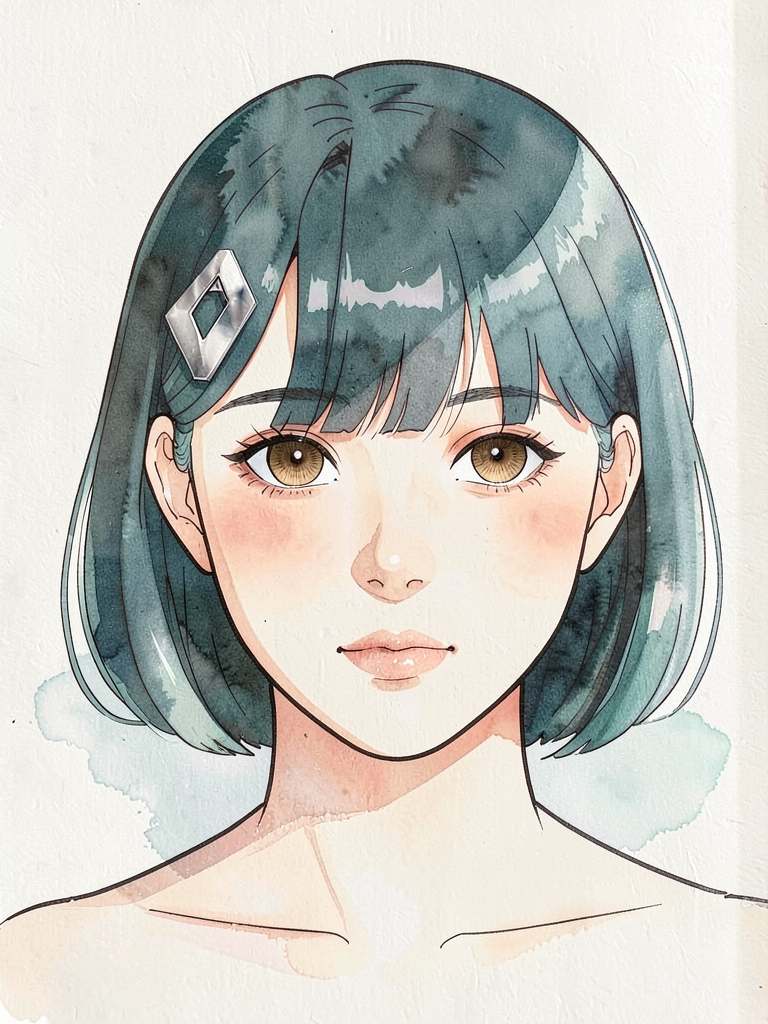
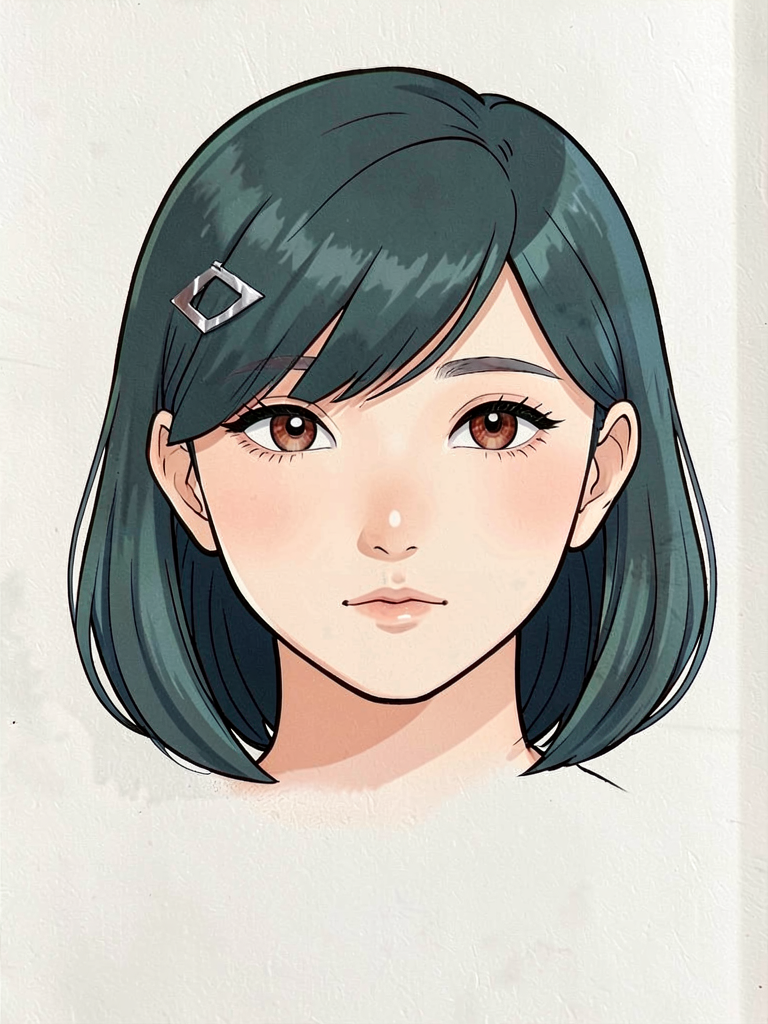
docs: refine Mira prop criteria

diff --git a/docs/assets/part-07/chapter-05/p7_5_2_research_trousers_deep_teal_blue.py b/docs/assets/part-07/chapter-05/p7_5_2_research_trousers_deep_teal_blue.py
@@ -1,5 +1,5 @@
 #!/usr/bin/env python3
-"""Generate an unapproved prompt-only hair-clip reference candidate."""
+"""Test a deep-teal-blue Mira trousers reference from prompt only."""
 
 from __future__ import annotations
 
@@ -11,14 +11,16 @@ from diffusers import Flux2KleinPipeline
 
 
 ROOT = Path("/home/cbsim/ws/AiBook/docs/assets/part-07/chapter-05")
-OUTPUT = ROOT / "p7-5-2-prop-reference-v2-hair-clip-candidate.png"
+OUTPUT = ROOT / "p7-5-2-prop-trousers-deep-teal-blue-candidate.png"
 MODEL_ID = "black-forest-labs/FLUX.2-klein-4B"
-PROMPT = """One isolated silver hair clip in a clean horizontal product view on a plain off-white background. Use one flat, elongated long-rhombus metal plate with four sharp pointed corners and a broad smooth silver rim. Cut one smaller elongated long-rhombus hole with four sharp pointed corners through the center, parallel to the outer plate; show the off-white background through it. Add one short barrette clasp behind the plate. No rounded slot, gem, pattern, person, text, logo, or other object."""
+
+PROMPT = """One isolated pair of deep teal blue high-waisted wide-leg trousers in a clean front view on a plain off-white background. Use one blue-dominant dark teal base color, neither green turquoise nor gray. Belt loops, center fly, crisp vertical seams, straight wide legs, and hems above the shoe collar. Clean product illustration. No person, hanger, text, logo, or other object."""
 
 
 def main() -> None:
     if not torch.cuda.is_available():
         raise RuntimeError("CUDA is required")
+
     pipe = Flux2KleinPipeline.from_pretrained(
         MODEL_ID,
         torch_dtype=torch.bfloat16,
@@ -26,14 +28,15 @@ def main() -> None:
     )
     pipe.enable_sequential_cpu_offload()
     pipe.set_progress_bar_config(disable=True)
+
     started = time.monotonic()
     image = pipe(
         prompt=PROMPT,
         width=768,
-        height=768,
+        height=1024,
         num_inference_steps=12,
         guidance_scale=1.0,
-        generator=torch.Generator(device="cpu").manual_seed(62285),
+        generator=torch.Generator(device="cpu").manual_seed(62280),
         max_sequence_length=256,
     ).images[0]
     image.save(OUTPUT)

diff --git a/docs/assets/part-07/chapter-05/p7_5_2_research_generate_face_front_from_hair_clip.py b/docs/assets/part-07/chapter-05/p7_5_2_research_generate_face_front_from_hair_clip.py
@@ -1,0 +1,52 @@
+#!/usr/bin/env python3
+"""Generate one unapproved Mira front-face reference from a hair-clip criterion and prompt."""
+
+from __future__ import annotations
+
+import time
+from pathlib import Path
+
+import torch
+from diffusers import Flux2KleinPipeline
+from PIL import Image
+
+
+ROOT = Path("/home/cbsim/ws/AiBook/docs/assets/part-07/chapter-05")
+HAIR_CLIP_MASTER = ROOT / "p7-5-2-face-hair-clip-reference-v1.png"
+OUTPUT = ROOT / "p7-5-2-face-front-v2-candidate.png"
+MODEL_ID = "black-forest-labs/FLUX.2-klein-4B"
+
+PROMPT = """One original adult Korean webtoon woman in a strict zero-yaw front head-and-shoulders portrait on off-white paper. Mira has an oval face, warm light-peach skin, a soft tapered jaw, equal almond eyes, and a calm neutral expression. Both eyes have matching chestnut-brown irises with a dark limbal ring, centered black pupils, and one upper viewer-left oval catchlight. Her hair is a dark petrol-teal rounded bob with a deep viewer-left side part, diagonal fringe, and jaw-length tapered side locks. Use the hair-clip master only for one silver long-rhombus plate with a matching central long-rhombus cutout, positioned above the viewer-left temple. No full body, clothing detail, bag, text, border, or extra person."""
+
+
+def main() -> None:
+    if not torch.cuda.is_available():
+        raise RuntimeError("CUDA is required")
+
+    pipe = Flux2KleinPipeline.from_pretrained(
+        MODEL_ID,
+        torch_dtype=torch.bfloat16,
+        cache_dir="/tmp/flux2-klein-diffusers-cache",
+    )
+    pipe.enable_sequential_cpu_offload()
+    pipe.set_progress_bar_config(disable=True)
+
+    started = time.monotonic()
+    image = pipe(
+        image=[
+            Image.open(HAIR_CLIP_MASTER).convert("RGB"),
+        ],
+        prompt=PROMPT,
+        width=768,
+        height=1024,
+        num_inference_steps=12,
+        guidance_scale=1.0,
+        generator=torch.Generator(device="cpu").manual_seed(62272),
+        max_sequence_length=256,
+    ).images[0]
+    image.save(OUTPUT)
+    print(f"{time.monotonic() - started:.2f}s -> {OUTPUT}")
+
+
+if __name__ == "__main__":
+    main()

diff --git a/docs/assets/part-07/chapter-05/p7_5_2_research_generate_face_hair_clip_reference.py b/docs/assets/part-07/chapter-05/p7_5_2_research_generate_face_hair_clip_reference.py
@@ -1,0 +1,44 @@
+#!/usr/bin/env python3
+"""Generate an unapproved prompt-only face hair-clip reference candidate."""
+
+from __future__ import annotations
+
+import time
+from pathlib import Path
+
+import torch
+from diffusers import Flux2KleinPipeline
+
+
+ROOT = Path("/home/cbsim/ws/AiBook/docs/assets/part-07/chapter-05")
+OUTPUT = ROOT / "p7-5-2-face-hair-clip-reference-v1-candidate.png"
+MODEL_ID = "black-forest-labs/FLUX.2-klein-4B"
+PROMPT = """One isolated silver hair clip in a clean horizontal product view on a plain off-white background. Use one flat, elongated long-rhombus metal plate with four sharp pointed corners and a broad smooth silver rim. Cut one smaller elongated long-rhombus hole with four sharp pointed corners through the center, parallel to the outer plate; show the off-white background through it. Add one short barrette clasp behind the plate. No rounded slot, gem, pattern, person, text, logo, or other object."""
+
+
+def main() -> None:
+    if not torch.cuda.is_available():
+        raise RuntimeError("CUDA is required")
+    pipe = Flux2KleinPipeline.from_pretrained(
+        MODEL_ID,
+        torch_dtype=torch.bfloat16,
+        cache_dir="/tmp/flux2-klein-diffusers-cache",
+    )
+    pipe.enable_sequential_cpu_offload()
+    pipe.set_progress_bar_config(disable=True)
+    started = time.monotonic()
+    image = pipe(
+        prompt=PROMPT,
+        width=768,
+        height=768,
+        num_inference_steps=12,
+        guidance_scale=1.0,
+        generator=torch.Generator(device="cpu").manual_seed(62285),
+        max_sequence_length=256,
+    ).images[0]
+    image.save(OUTPUT)
+    print(f"{time.monotonic() - started:.2f}s -> {OUTPUT}")
+
+
+if __name__ == "__main__":
+    main()

diff --git a/management/release-notes/sections/part-07/P7-5.2.md b/management/release-notes/sections/part-07/P7-5.2.md
@@ -5,10 +5,11 @@
 
 ### v2026.08.04
 
+- 머리핀을 `소품 기준 v2`에서 폐기하고, 얼굴·앞머리 detail 전용 기준으로 분리했다. 소품 패키지는 자켓·바지·신발·가방 네 장만 유지한다.
+- 사람 승인한 청색 우세 딥틸블루 와이드 팬츠로 `소품 기준 v2`의 기존 바지 기준을 교체했다. 얼굴·머리카락의 딥틸블루 통일 후보는 머리핀 배치가 흔들려 미승인으로 유지했다.
 - 사용자 노출 용어를 `master` 대신 `기준`으로 정리했다. 화풍 입력 없이 prompt-only로 생성한 재킷·바지·신발·가방을 사람 승인해 `소품 기준 v2`에 등록했으며, 머리핀은 보류로 남겼다.
 - 이전 머리핀을 폐기하고, 날카로운 가로 긴 마름모 외곽과 같은 방향의 중앙 타공을 가진 새 prompt-only 머리핀을 `소품 기준 v2`에 등록했다.
-- 얼굴 master·머리핀 master·P7-5.1 화풍 원본을 각각 identity·장식 형상·렌더링 처리로 분리해 만든 정면 얼굴 기준을 사람 승인했다. 기존 정면 홍채 detail은 눈 규격 대조용으로 유지했다.
-- P7-5.1 화풍 원본 한 장과 prompt만으로 만든 미라 정면 얼굴 master를 사람 승인했다. 전신 정면, 기존 얼굴 detail, 소품 이미지는 입력에서 제외했으며, 정면 identity만 승인 범위로 기록했다.
+- 정면 얼굴 master와 별도 정면 기준을 하나의 정면 얼굴 기준으로 통합했다. 화풍·기존 얼굴·전신 이미지는 입력에서 제거하고, 승인된 머리핀 기준 한 장과 기존 얼굴 prompt만으로 새 정면 기준을 생성·사람 승인했다. 기존 정면 홍채 detail은 눈 규격 대조용으로 유지했다.
 - 사람 승인한 짙은 청록 와이드 팬츠, 짙은 네이비 캔버스 크로스백, 은색 긴 마름모 타공 머리핀을 소품 master에 추가했다. 이 master는 이제 신발·자켓·바지·가방·머리핀을 개별 PNG로 가리키며, 미승인 중복 소품 후보는 제거했다.
 - 승인된 흰색 스니커즈와 흰색 크롭 유틸리티 자켓을 개별 PNG로 가리키는 `p7-5-2-prop-master-v1.json`을 추가했다. 헤어핀·크로스백·바지 후보는 아직 소품 master에서 제외했다.
 - 화풍 원본만을 참조해 만든 흰색 크롭 유틸리티 자켓 detail을 사람 승인했다. 칼라·양쪽 flap pocket·단추·소매·재단선만을 승인 범위로 등록하고, 기존 미승인 자켓 hardware 후보는 제거했다.
